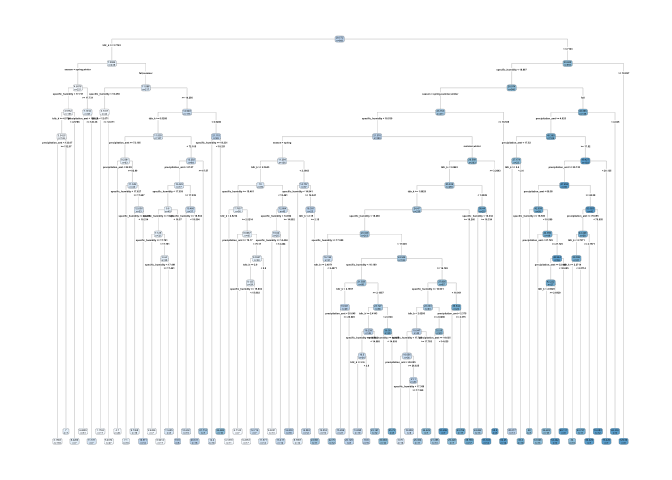
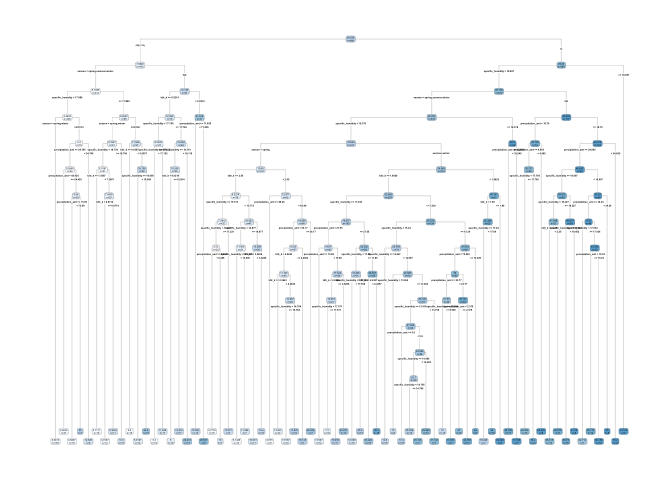
Added descriptions.

diff --git a/code/data_mining_ex3.md b/code/data_mining_ex3.md
@@ -1,24 +1,25 @@
 Problem 1: What causes what?
 ============================
 
-Why can’t I just get data from a few different cities and run the regression of “Crime” on “Police” to understand how more cops in the streets affect crime? (“Crime” refers to some measure of crime rate and “Police” measures the number of cops in a city.)
----------------------------------------------------------------------------------------------------------------------------------------------------------------------------------------------------------------------------------------------------------------
+1. Why can’t I just get data from a few different cities and run the regression of “Crime” on “Police” to understand how more cops in the streets affect crime?
+---------------------------------------------------------------------------------------------------------------------------------------------------------------
 
 Firstly, grouping data from different cities makes the incorrect
 assumption that the data points are independently and identically
 distributed among cities. Crime rates and police measures vary among
 cities, and factors that influence these two variables, such as, police
 budgets, population, income levels, criminal punishments, etc. also vary
-amongst cities. As a result, combining data from different cities could
-distort the outcome of the regression. Secondly, while police measures
-affect crime rates, crime rates also affect the level of police
-measures, leading to a simultaneous causality bias. Thirdly, there is a
-lack of control variables in the regression as crime rates can be
-influenced by several other variables as mentioned above; this could
-lead to incorrect estimation of the effect of “Police” on “Crime”.
+amongst cities depending on varying state laws. As a result, combining
+data from different cities could distort the outcome of the regression.
+Secondly, while police measures affect crime rates, crime rates also
+affect the level of police measures, leading to a simultaneous causality
+bias. Thirdly, there is a lack of control variables in the regression as
+crime rates can be influenced by several other variables as mentioned
+above; this could lead to incorrect estimation of the effect of “Police”
+on “Crime”.
 
-How were the researchers from UPenn able to isolate this effect? Briefly describe their approach and discuss their result in the “Table 2” below, from the researchers’ paper.
-------------------------------------------------------------------------------------------------------------------------------------------------------------------------------
+2. How were the researchers from UPenn able to isolate this effect? Briefly describe their approach and discuss their result in the “Table 2” below, from the researchers’ paper.
+---------------------------------------------------------------------------------------------------------------------------------------------------------------------------------
 
 The researchers from UPenn narrowed down their research to only one
 city, Washington, D.C., assuming that the data points would be
@@ -61,8 +62,8 @@ statistically significant at the 5% and 1% level, respectively, the
 second regression performs better than the first regression, although by
 only a small margin.
 
-Why did they have to control for Metro ridership? What was that trying to capture?
-----------------------------------------------------------------------------------
+3. Why did they have to control for Metro ridership? What was that trying to capture?
+-------------------------------------------------------------------------------------
 
 It is possible that on High Alert days, fewer people are out in the city
 due to higher threat levels of terrorism. Fewer people out in the city
@@ -72,8 +73,8 @@ controlled for. Metro ridership attempts to capture the number of
 potential victims of crime based on the changes in ridership with
 respect to High Alert days.
 
-Below I am showing you “Table 4” from the researchers’ paper. Just focus on the first column of the table. Can you describe the model being estimated here? What is the conclusion?
------------------------------------------------------------------------------------------------------------------------------------------------------------------------------------
+4. Below I am showing you “Table 4” from the researchers’ paper. Just focus on the first column of the table. Can you describe the model being estimated here? What is the conclusion?
+--------------------------------------------------------------------------------------------------------------------------------------------------------------------------------------
 
 The researchers are estimating the district-specific effects of High
 Alert days on the daily total number of crimes in D.C., while
@@ -109,25 +110,41 @@ Problem 2: Tree modeling: dengue cases
 CART model: Regression Tree
 ---------------------------
 
+Below is an unpruned regression tree that utilizes the following
+variables: ***cityseason***, ***specific\_humidity***, ***tdtr\_k***,
+and ***precipitation\_amt*** to predict the total dengue cases,
+***total\_cases***.
+
 ![](data_mining_ex3_files/figure-markdown_strict/unnamed-chunk-1-1.png)
 
 ### Pruned regression tree at the 1 standard error complexity level
+
+Below is a pruned regression tree that uses the same variables as the
+tree above at the 1 standard error complexity level to predict total
+dengue cases.
 
 ![](data_mining_ex3_files/figure-markdown_strict/unnamed-chunk-2-1.png)
 
 ### RMSE of predicting the regression tree on the test set
 
-    ## [1] 26.21029
+    ## [1] 28.69538
 
 Random forest
 -------------
 
+The random forest model also utilizes the same variables to predict the
+total dengue cases.
+
 ### RMSE of predicting random forest on the test set
 
-    ## [1] 24.0171
+    ## [1] 26.35863
 
 Gradient-Boosted Trees
 ----------------------
+
+The gradient boosted model also utilizes the same variables to predict
+the total dengue cases. I first built a model assuming Gaussian
+distribution and then built another model assuming Poisson distribution.
 
 ### Gaussian distribution
 
@@ -137,18 +154,19 @@ Gradient-Boosted Trees
 
 The figure above displays a loss function as a result of n trees added
 to the ensemble for the chosen gradient boosted machine (gbm) model .
-The model assumes gaussian distibution with 500 trees. The squared error
+The model assumes Gaussian distibution with 500 trees. The squared error
 loss is shown on the y-axis and numbers of trees is on the x-axis. It
 can be seen that the cross-validated errors represented by the green
 line are minimized between 40 to 90 trees. Therefore, the ideal number
 of trees to minimize error while accounting for overfitting would be
-100.
+100. The number of trees that minimizes the squared error loss in this
+run of the model is also displayed above.
 
 The RMSE between the predicted total number cases of dengue from the
 chosen gbm model and the actual total number of cases of dengue from the
 test set is shown below.
 
-    ## [1] 25.23003
+    ## [1] 27.84624
 
 ### Poisson distribution
 
@@ -159,7 +177,7 @@ function above. The RMSE between the predicted total number cases of
 dengue from the chosen gbm model and the actual total number of cases of
 dengue from the test set is shown below.
 
-    ## [1] 24.57142
+    ## [1] 27.20808
 
 Since, the RMSE for the random forest model is the lowest out of all the
 models observed above, it will be utilized to create partial dependence
@@ -175,11 +193,23 @@ The average specific humidity in grams of water per kilogram of air for
 the week. This is a raw measure of humidity based purely on how much
 water is in the air.
 
+It can be seen from the plot below that as the average specific humidity
+rises, the predicted number of dengue cases also rises until it flatten
+outs as the average specific humidity approaches 19 grams of water per
+kilogram of air for the week.
+
 ![](data_mining_ex3_files/figure-markdown_strict/unnamed-chunk-8-1.png)
 
 ### precipitation\_amt
 
 Rainfall for the week in millimeters.
+
+It can be seen from the plot below that the relationship between
+predicted dengue cases and precipitation is quite volatile until
+precipitation reaches 100 millimeters. Beyond 100 millimeters of
+precipitation, there seems to be a positive relationship between dengue
+cases and precipitation until it becomes levels off beyond 290
+millimeters of precipitation.
 
 ![](data_mining_ex3_files/figure-markdown_strict/unnamed-chunk-9-1.png)
 
@@ -187,6 +217,11 @@ Rainfall for the week in millimeters.
 
 The average Diurnal Temperature Range (DTR) for the week. DTR is the
 difference between the maximum and minimum temperature for a single day.
+
+It can be seen from the plot below that there is a negative relationship
+between dengue cases and DTR until DTR reaches approximately 7. Beyond
+that point, the dengue cases remain relatively constant as DTR
+increases.
 
 ![](data_mining_ex3_files/figure-markdown_strict/unnamed-chunk-10-1.png)
 
@@ -212,7 +247,9 @@ the new data frame to prevent multicollinearity and eliminate the need
 to remove these two variables from the models specified below. As a
 final pre-processing step, I excluded any missing values in the dataset
 and split 80% of the data into the training set and 20% of the data into
-the test set.
+the test set. Note: I did not scale the data since the modeling
+approaches I will be pursuing do not involve distances, hence they are
+not sensitive to the variance in the data.
 
 Modeling approach
 -----------------
@@ -225,7 +262,7 @@ multiple regression on all the features except ***total\_dd\_07***, and
 The RMSE of predicting the linear model on the test set is shown below.
 
     ##   result 
-    ## 10.53993
+    ## 10.42577
 
 ### Random forest (Model of Choice)
 
@@ -239,7 +276,7 @@ set which is shown below. It can be seen that the random forest model
 performs better than the linear model based on the RMSE difference
 between the two.
 
-    ## [1] 8.893612
+    ## [1] 7.118311
 
 To identify the important variables in the random forest model, I built
 the variable importance plot shown below. It can be seen that
@@ -254,7 +291,7 @@ new model is shown below. Based on the RMSE, this model does not
 necessarily perform better than the previous random forest model;
 however, it still outperforms the multiple regression model.
 
-    ## [1] 8.918045
+    ## [1] 7.107853
 
 To quantify the average change in revenue per square foot I decided to
 build partial dependence plots (pdp) associated with green
@@ -263,7 +300,8 @@ certifications using the first random forest model. The pdp’s for the
 
 ![](data_mining_ex3_files/figure-markdown_strict/unnamed-chunk-16-1.png)![](data_mining_ex3_files/figure-markdown_strict/unnamed-chunk-16-2.png)
 
-#### Conclusion
+Conclusion
+----------
 
 The pdp for LEED shows that when LEED = 0, the predicted revenue per
 square foot per calendar year is slightly over 24 and when LEED = 1, the
@@ -286,9 +324,10 @@ Hence, it can be concluded that energy certifications do not influence
 building revenue per square foot per calendar year very significantly.
 
 Problem 4:Predictive model building: California housing
--------------------------------------------------------
+=======================================================
 
-### Goal
+Goal
+----
 
 The goal is to build the best predictive model for median house values
 in California.
@@ -303,6 +342,12 @@ totals. Additionally, I removed ***totalRooms*** and ***totalBedrooms***
 from the new data frame to avoid multicollinearity and save writing in
 model specification. Lastly, I excluded any missing values and split 80%
 of the data into the training set and 20% of the data into the test set.
+Note: I did not scale the data since the modeling approaches I will be
+pursuing do not involve distances, hence they are not sensitive to the
+variance in the data.
+
+Modeling Approach
+-----------------
 
 ### Linear Model (Baseline)
 
@@ -311,7 +356,7 @@ multiple regression on all the features in the training set. The RMSE of
 predicting the linear model on the test set is shown below.
 
     ##   result 
-    ## 69731.69
+    ## 69989.88
 
 ### Random Forest
 
@@ -321,9 +366,10 @@ model and the actual revenue from the test set which is shown below. It
 can be seen that the random forest model significantly outperforms the
 linear model based on the RMSE difference between the two (~18000).
 
-    ## [1] 49701.57
+    ## [1] 51979.25
 
-### Gradient-Boosted Trees (Model of Choice)
+![](data_mining_ex3_files/figure-markdown_strict/unnamed-chunk-20-1.png)
+\#\#\# Gradient-Boosted Trees (Model of Choice)
 
 I used all of the features in the training set and assumed a Gaussian
 distibution for the gradient boosted model with 10-fold
@@ -333,22 +379,51 @@ choosing such a high number of trees becuase the loss function kept
 showing the n-th tree as the mean-squared-error minimizer until I chose
 3,000 and received a 2,900+ number as the mean-squared-error minimizer.
 The number of trees that minimized the mean-squared-error and a plot of
-the loss function is displayed below.
+the loss function is displayed below. Additionally, I manually
+cross-validated the interaction depth and shrinkage based on the lowest
+RMSE measure and arrived at the chosen parameters.
 
-![](data_mining_ex3_files/figure-markdown_strict/unnamed-chunk-20-1.png)
+![](data_mining_ex3_files/figure-markdown_strict/unnamed-chunk-21-1.png)
 
-    ## [1] 2995
+    ## [1] 3000
 
 The RMSE between the predicted revenue and the actual revenue from the
 test set is displayed below. It is lower than that of the random forest
 model. Therefore, this model will be the model of choice.
 
-    ## [1] 46611.1
+    ## [1] 47993.34
 
 Map Plots
 ---------
 
-![](data_mining_ex3_files/figure-markdown_strict/unnamed-chunk-22-1.png)
+### Actual Median House Values
+
+The distribution of the actual median house values is shown below on the
+California map. The values increase from green to red on the color
+scale.
 
 ![](data_mining_ex3_files/figure-markdown_strict/unnamed-chunk-23-1.png)
+
+### Predicted Median House Values
+
+The distribution of the gbm predicted median house values is shown below
+on the California map. The values increase from green to red on the
+color scale. The color distribution is quite similiar to that of the
+actual values, with the exception of high values. It seems that my model
+did not predict the high values as high as they should have been since
+mostly orange data points are observed in place of red ones.
+
 ![](data_mining_ex3_files/figure-markdown_strict/unnamed-chunk-24-1.png)
+
+### Residuals
+
+The distribution of the residuals from the gbm model is shown below on
+the California map. The resisduals were calculated as differenced
+between predicted median house values and actual median house values.
+Blue-ish points represent negative differences, green points represent
+minimal to no differences, and red-ish points represent positive
+differences. It can be seen that most of the data points are in the
+green range, which reflects the success of the gbm model in predicting
+median house values.
+
+![](data_mining_ex3_files/figure-markdown_strict/unnamed-chunk-25-1.png)
